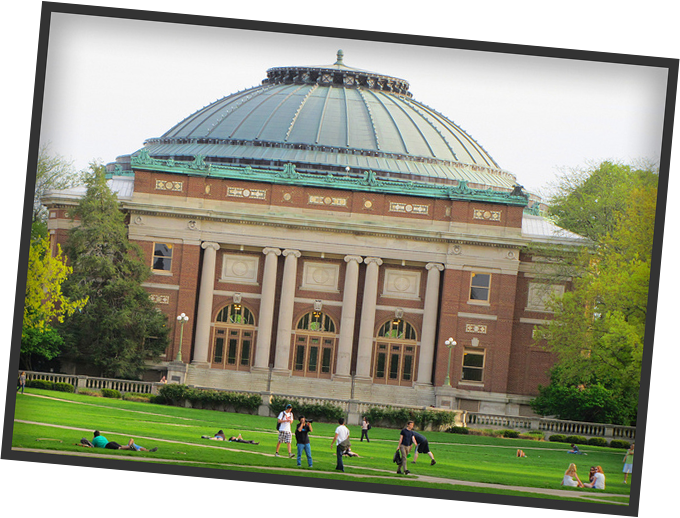
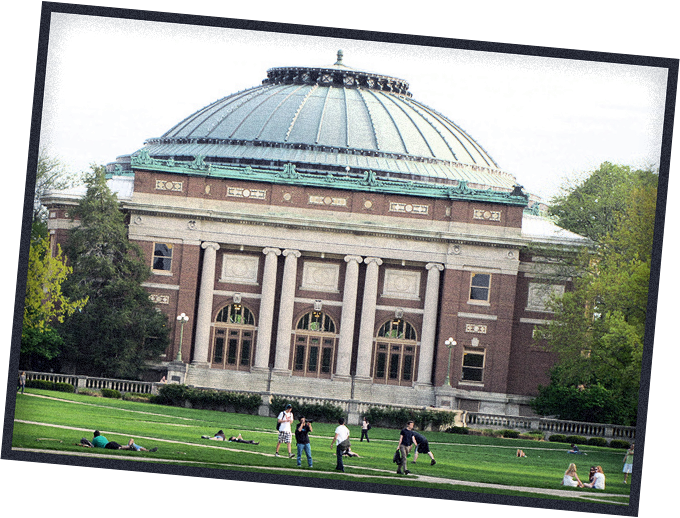
changes some things

diff --git a/index.html b/index.html
@@ -2,6 +2,8 @@
 <head>
   <title>star course</title>
     <meta http-equiv="Content-Type" content="text/html; charset=UTF-8" >
+    <meta name="google-site-verification" content="WbYPJ5sRwlEHShdPwHQKxiDjGAen2NccXdaPblq0GHI"/>
+    <link rel="shortcut icon" href="img/favicon.ico">
     <link rel='stylesheet' type='text/css' href='css/styles.css'/>
 </head>
 <body>
@@ -16,18 +18,28 @@
         <div id="socialul">
         <ul>
             <li id="facebook" class="aspect">
-                <a href="http://www.facebook.com">
+                <a href="http://www.facebook.com/starcourse">
                 <img class="socialicon" src="img/color/facebook-circle-color@2x.png"/>
                 </a>
             </li>
             <li id="tumblr" class="aspect">
-                <a href="http://www.tumblr.com">
+                <a href="http://star-course.tumblr.com/">
                 <img class="socialicon" src="img/color/tumblr-circle-color@2x.png"/>
                 </a>
             </li>
             <li id="twitter" class="aspect">
-                <a href="http://www.twitter.com">
+                <a href="http://www.twitter.com/starcourse">
                 <img class="socialicon" src="img/color/twitter-circle-color@2x.png"/>
+                </a>
+            </li>
+            <li id="instagram" class="aspect">
+                <a href="http://instagram.com/starcourse">
+                <img class="socialicon" src="img/color/instaicon.png"/>
+                </a>
+            </li>
+            <li id="pinterest" class="aspect">
+                <a href="http://pinterest.com/starcourse">
+                <img class="socialicon" src="img/color/pinterest-circle-color@2x.png"/>
                 </a>
             </li>
         </ul>
@@ -46,7 +58,7 @@
             <div class="content">
                 <p>Originated in 1892, Star Course is a live-concert organization run completely by students dedicated to the promotion and production of entertainment events for both the students of the University of Illinois and the Champaign-Urbana community. These events often include bands of various genres, but Star Course has also presented orchestras, comedy acts, and a variety of talented individuals. A full list of events from Star Course’s History can be found on our History Page.</p>
 
-                <p>Nearly all the events are held at <a href="http://www.foellinger.uiuc.edu/">Foellinger Auditorium</a> at the south end of the Main Quad.</p>
+                <p>Nearly all of the events are held at <a href="http://www.foellinger.uiuc.edu/">Foellinger Auditorium</a>, located at the south end of the Main Quad.</p>
             </div>
         </article>
     </section>
@@ -64,7 +76,7 @@
             <div class="content">
                 <h2><a id='tix' href="http://www.ticketmaster.com/University-of-Illinois-Foellinger-Auditorium-tickets-Urbana/venue/57782">Order via Ticketmaster</a></h2>
                 <p>Tickets for <b>Foellinger Auditorium</b> shows available at:</p>
-                <!--
+                
                 <div class="tbox">
                     <p>Assembly Hall Ticket Office</p>
                     <p>1800 S. First St.</p>
@@ -76,20 +88,20 @@
                     </br>
                     No service fees apply to purchases at the box office.
                 </p>
-                -->
+                
                 <p>Tickets for <b>Courtyard Cafe</b> shows available at:</p>
-                <!--
+                
                 <div class="tbox"><p>Courtyard Cafe Office (next to Espresso Royale in the Illini Union)</p></div>
 
                 <p>Order by Phone: (217) 333-5000</p>
                 <p class="detail">+$3.00 service fee per ticket</p>
-                -->
+                
             </div>
         </article>
     </section>
     <section id="contact" class="story" data-speed="4" data-offsetY="950" data-type="background">
         <article>
-            <h1 style="color:#333">mail</h1>
+            <h1>mail</h1>
             <div class="content">
                 <p></br>
                     Mailbox 90</br>
@@ -105,4 +117,7 @@
     <script src='js/libs/jquery-1.6.1.min.js'></script>
     <script src="js/script.js"></script>
 </body>
+<footer>
+    <a rel="license" href="http://creativecommons.org/licenses/by-sa/3.0/us/deed.en_US"><img alt="Creative Commons License" style="border-width:0" src="http://i.creativecommons.org/l/by-sa/3.0/us/80x15.png" /></a><br /><span xmlns:dct="http://purl.org/dc/terms/" property="dct:title">Star-course.com</span> by <a xmlns:cc="http://creativecommons.org/ns#" href="www.star-course.com" property="cc:attributionName" rel="cc:attributionURL">Bryce Dorn</a> is licensed under a <a rel="license" href="http://creativecommons.org/licenses/by-sa/3.0/us/deed.en_US">Creative Commons Attribution-ShareAlike 3.0 United States License</a>.
+</footer>
 </html>

diff --git a/css/styles.css b/css/styles.css
@@ -27,6 +27,7 @@ h1 {
   font-family: Blackoak STD;
   text-shadow: 2px 2px 8px rgba(0,0,0,0.2);
   font-size: 80px;
+  line-height: 60px;
   margin-left: 40px;
   text-shadow: 2px 2px 8px rgba(0,0,0,0.2) ;
 }
@@ -45,7 +46,8 @@ a {
   font-weight: 400;
 }
 #tix {
-  color: #00ff00;
+  color: #fff;
+  border-bottom: #fff dotted 2px;
 }
 
 /*-,._.,-*~'`^`'~*-,._.,-*~'`^`'~*-,._.,-*~'`^`'~*-,._.,-*
@@ -56,7 +58,6 @@ a {
 
 #socialul {
   position: fixed;
-  z-index: 1000;
   right: 20px;
   top: -14px;
 }
@@ -78,13 +79,13 @@ a {
 
 
 #nav {
-  background:#333; /*blur would be cool*/
+  background:rgba(50,50,50,0.8); /*blur would be cool*/
   position: fixed;
   top:0px;
   height: 32px;
   z-index: 9999;
   width: 100%;
-  border-bottom: #383838 solid 1px;
+  border-bottom: rgba(30,30,30,0.9) solid 1px;
   -webkit-transition: .2s ease-in-out;
   -moz-transition: .2s ease-in-out;
   -o-transition: opacity .2s ease-in-out;
@@ -137,7 +138,7 @@ h3 a:hover {
 #about .photo { background: url('../img/foe2.png') no-repeat fixed; background-size: 40%; min-height: 900px; padding: 0; margin: 0; width: 100%; max-width: 1920px; position: absolute; margin: 0 auto; z-index: 3000; }
 #staff { background: url('../img/stairs.jpg') no-repeat fixed 50% 0; color:#eeeeee; }
 #tickets { background: url('../img/train.jpg') no-repeat fixed; color: #eee;}
-#contact { background: url('../img/sepia.jpg') no-repeat fixed 50% 0; height: 500px; color:#eee; }
+#contact { background: url('../img/pattern.png') fixed 50% 0; height: 500px; color:#eee; }
 
 .tbox{
   background: rgba(200,200,200,0.4);
@@ -156,9 +157,17 @@ h3 a:hover {
   margin: 0 auto; 
 }
 #blurb {
+  padding: 4px;
+  background: rgba(255,255,255,0.4);
   width: 100%;
   top: 0px;
   position: absolute;
   margin: 490px auto;
   text-align: center;
+}
+footer {
+  padding-top: 40px;
+  height: 80px;
+  text-align: center;
+  background: url('../img/floral.png') fixed 50% 80px; 
 }
